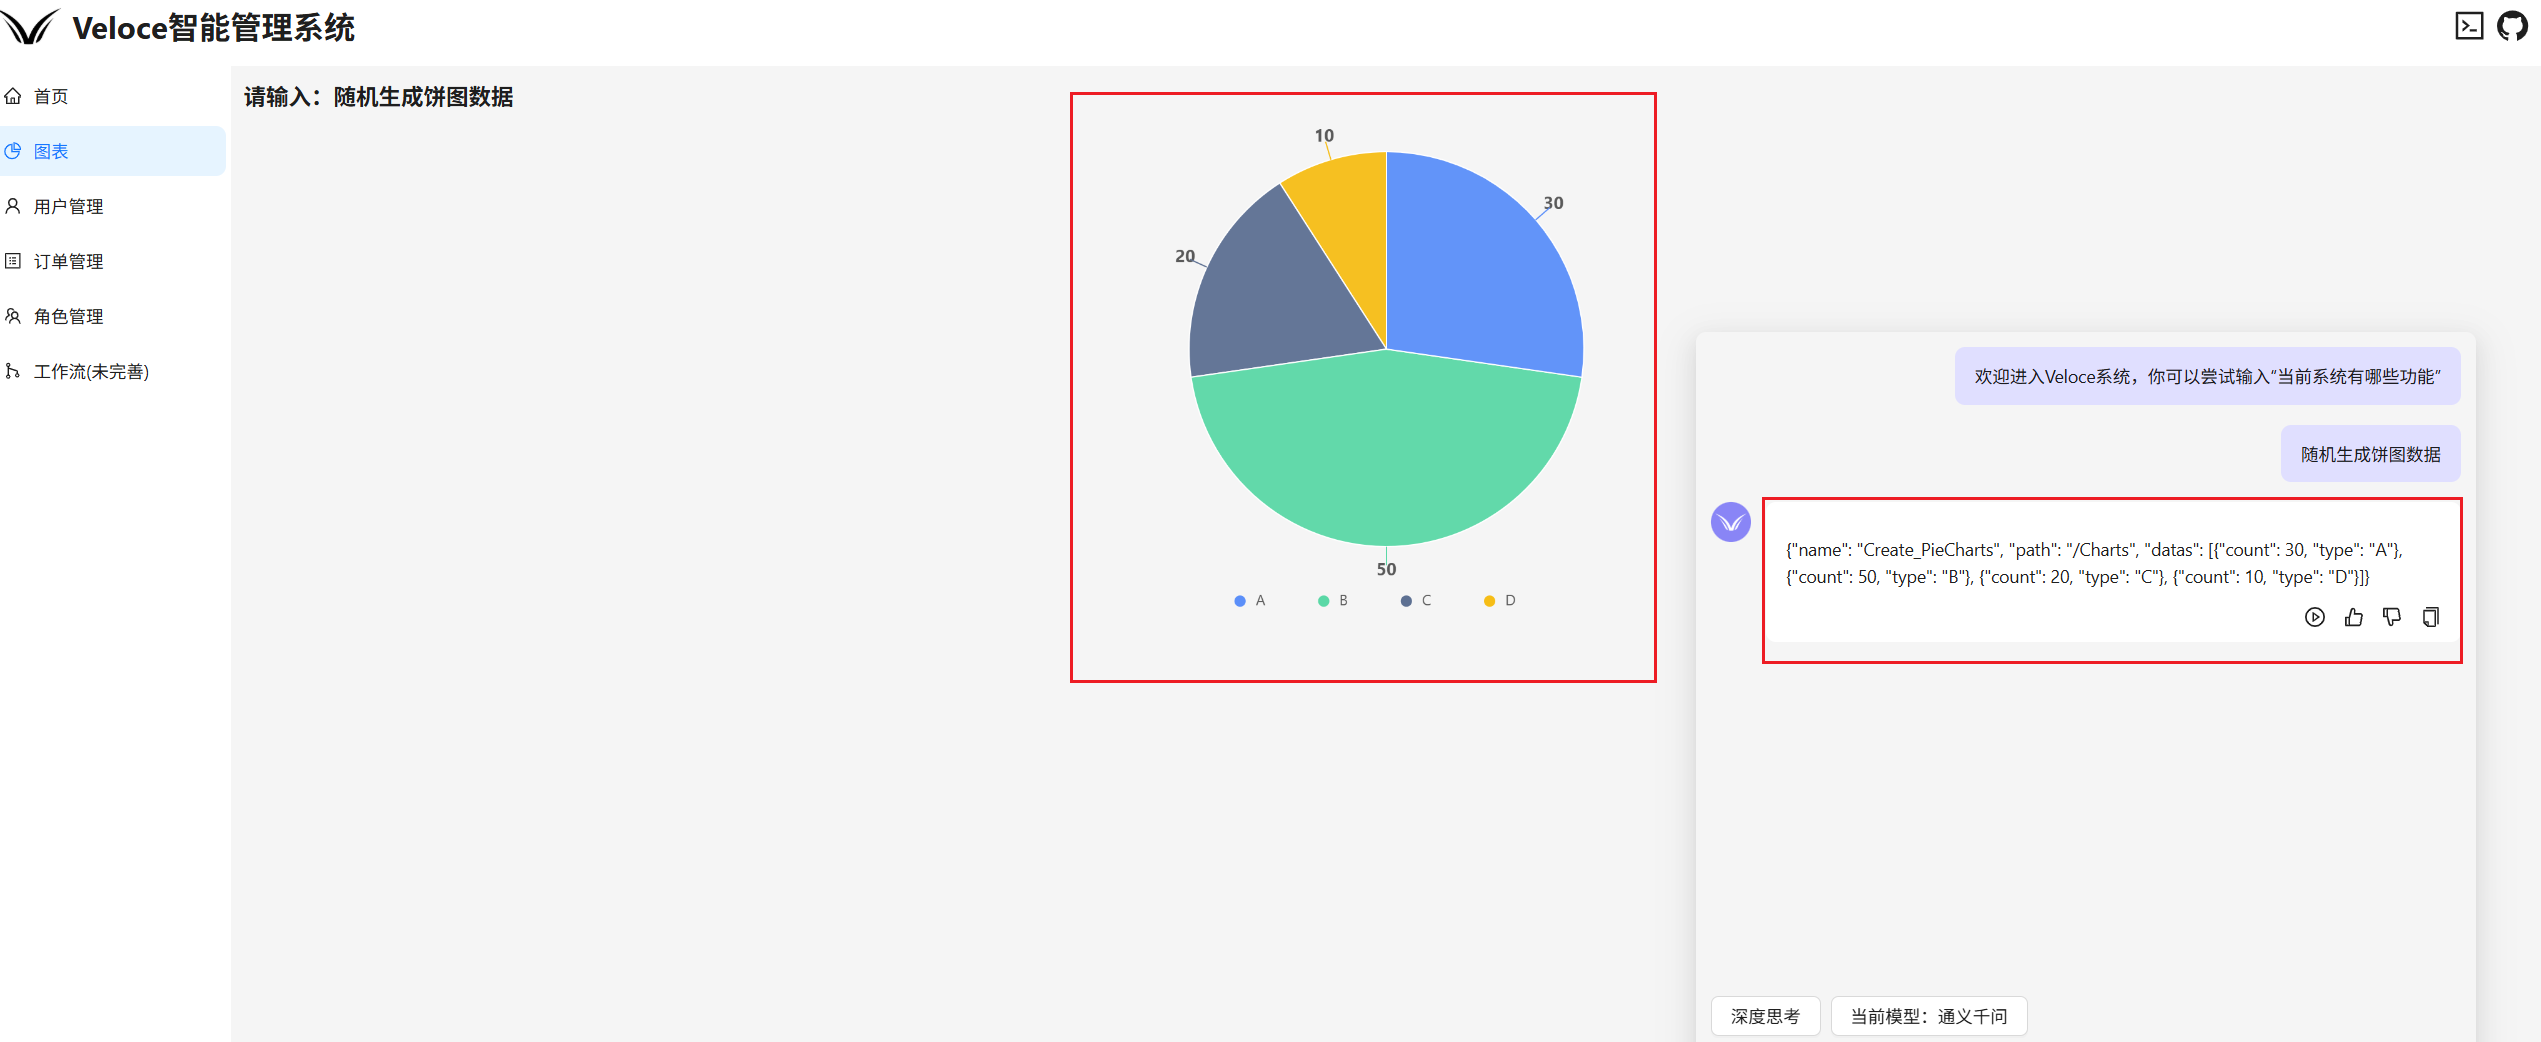
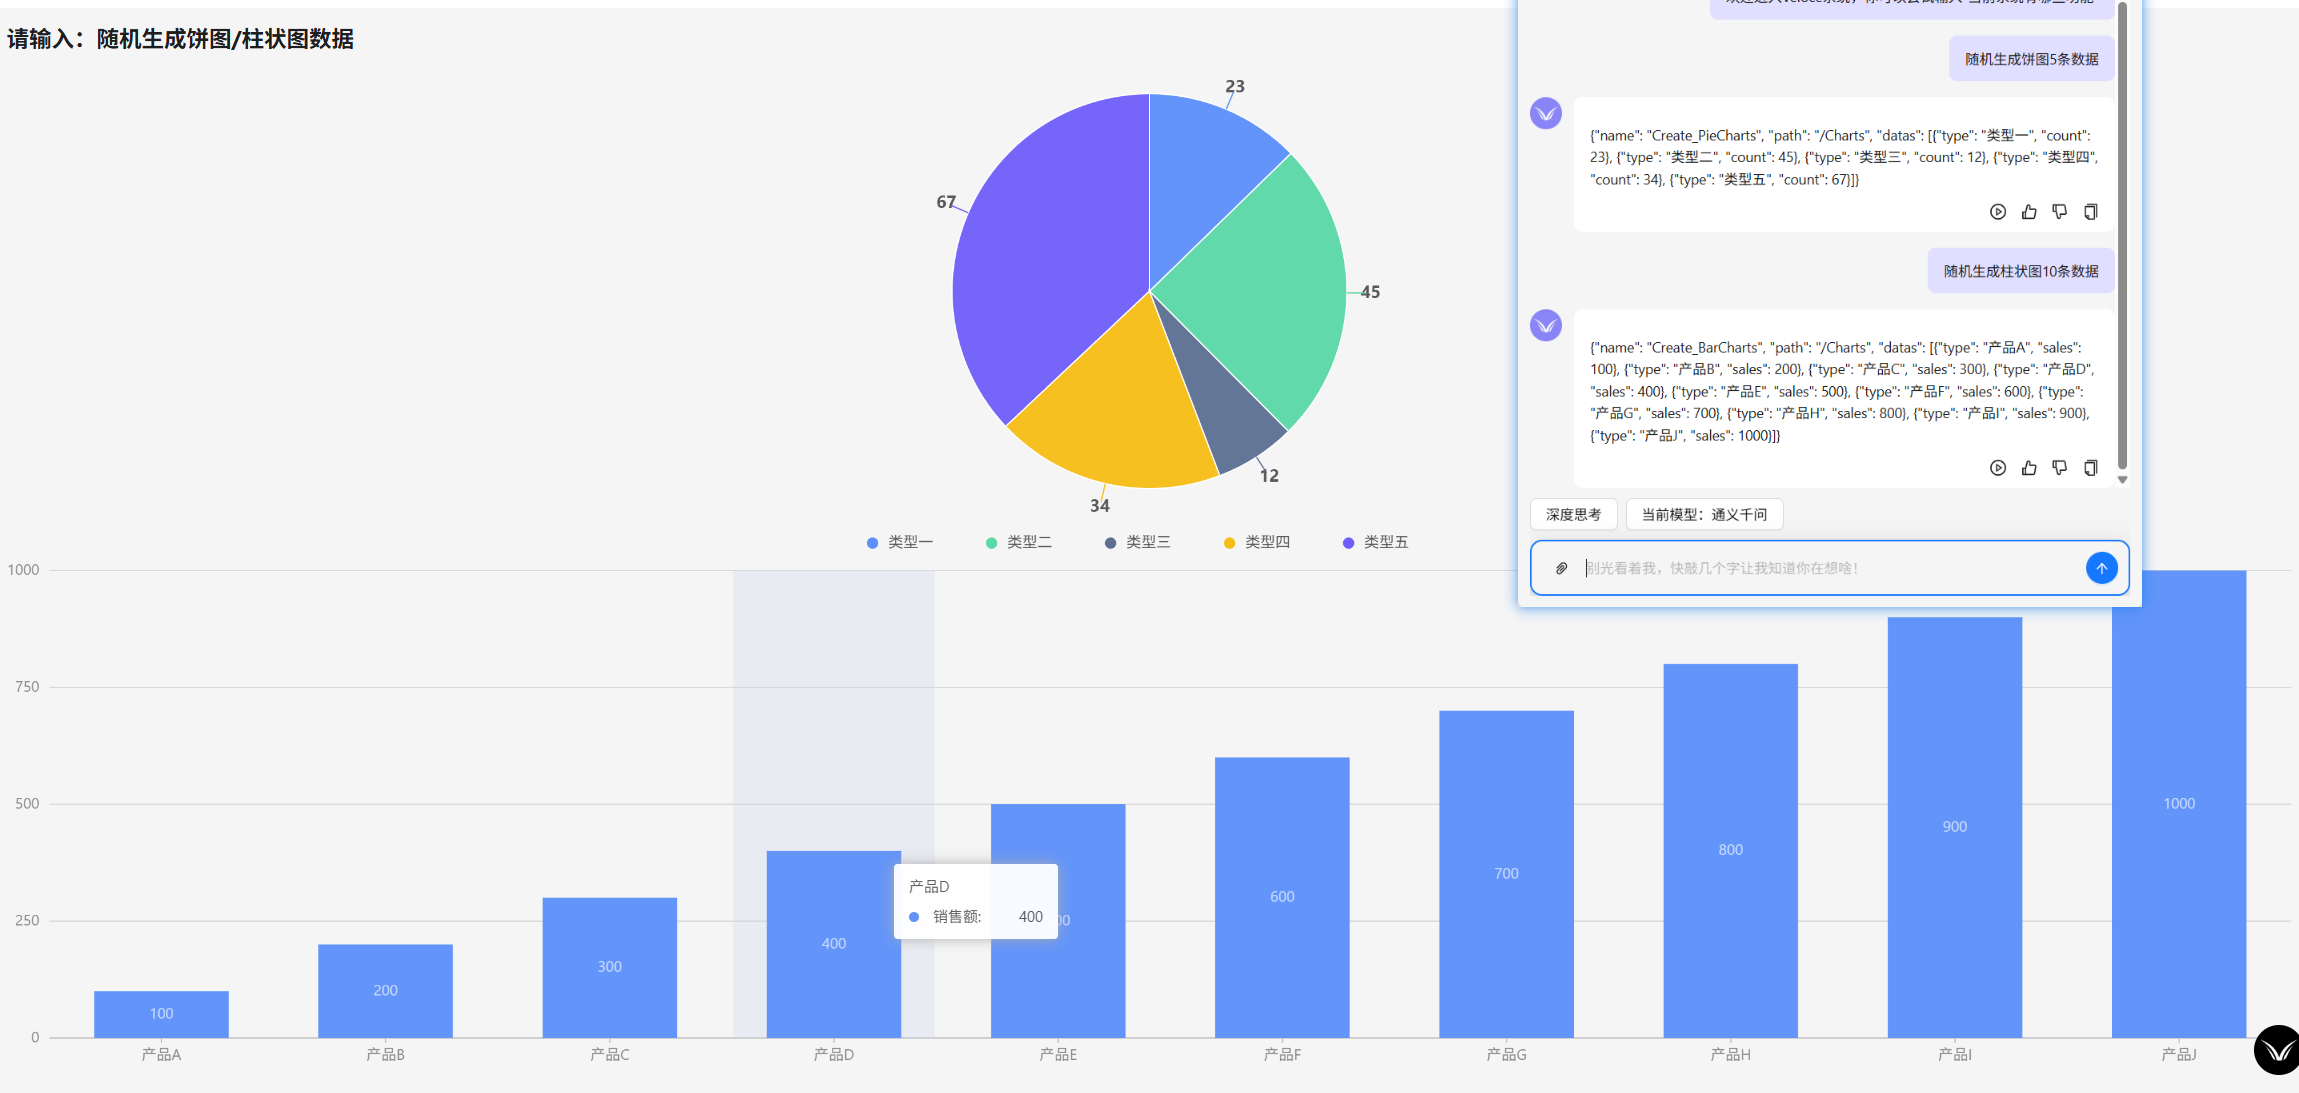
fix: 更新README

diff --git a/README.MD b/README.MD
@@ -77,7 +77,7 @@ DeepSeek ApiKey 查询：https://platform.deepseek.com/api_keys
 **创建组件**
 ![alt text](public/image-cpn.png)
 
-**生成图表：目前仅支持饼图**
+**生成图表**
 ![alt text](public/image-charts.png)
 
 **用户管理：支持增删改查**
